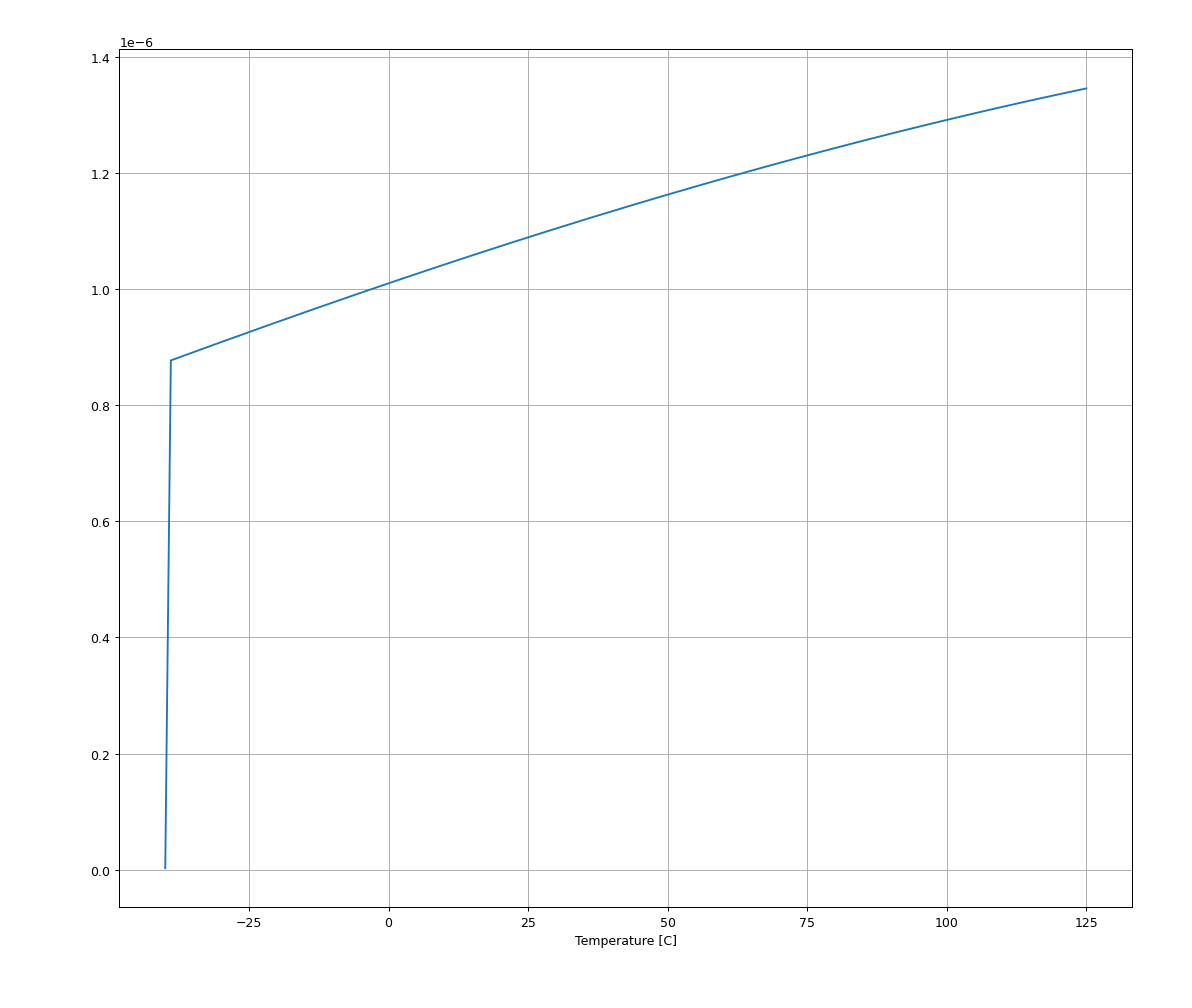
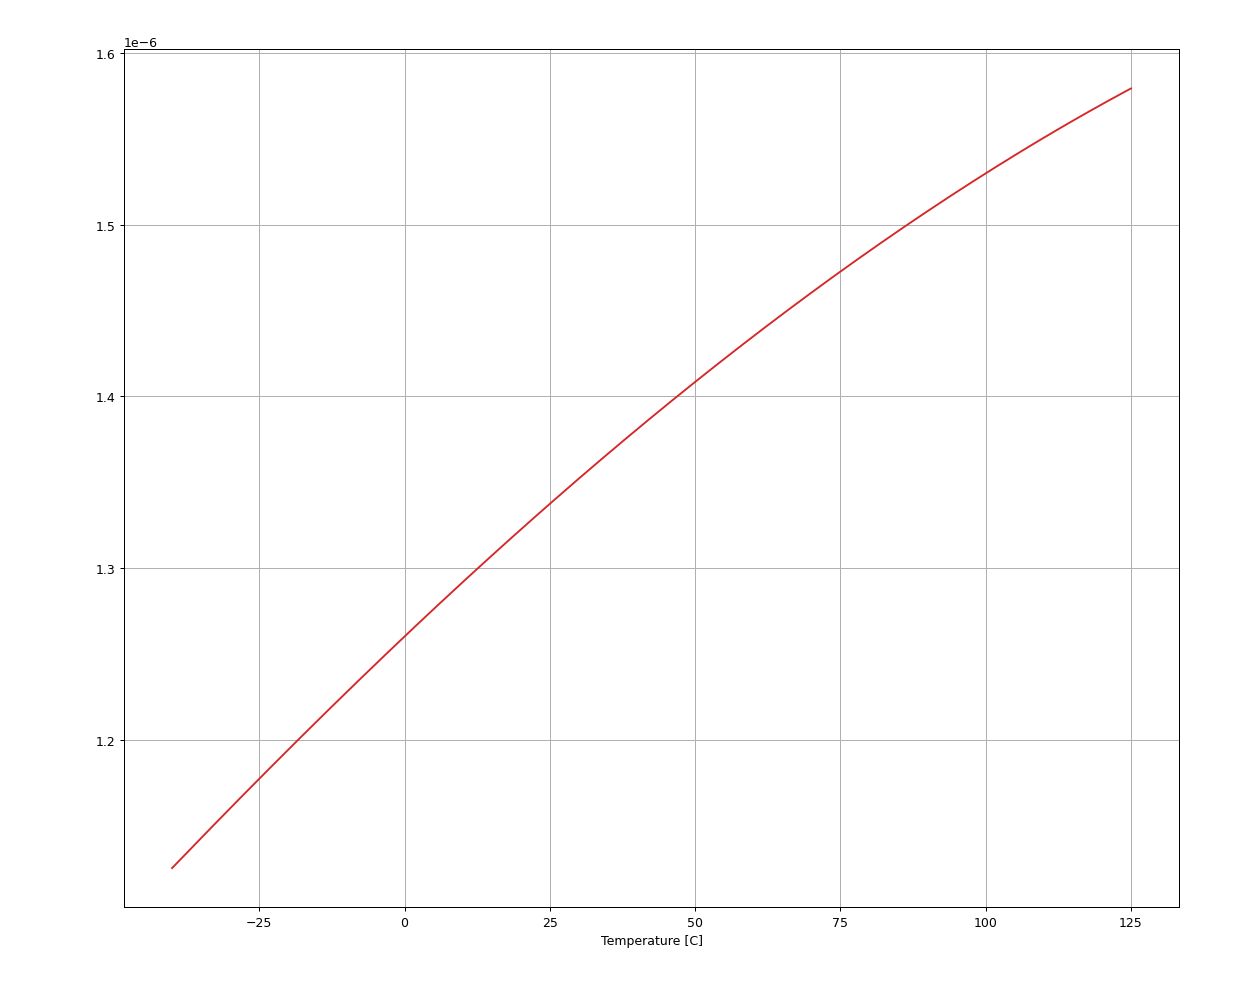
Fixed schemati bug and added updated graph pictures. Also edited README.

diff --git a/README.md b/README.md
@@ -6,18 +6,24 @@
 # Who
 Nicolas, Nikolai and Walter, aka. Group 1
 
-# Module 1: Bandgap
+# Module 2: Oscillator
 
 ## Why
 
-In order to create a temperature dependent output that we can measure later, we have created a bandgap that outputs a current which varies based on temperature. 
+To avoid having to make an ADC, the current that scales linearly with temperature can be converted into a frequency. If we can do this, then it will be less accurate than with a good ADC, but also way less complex, because frequency can be read without an ADC.
 
 
 ## How
 
-The bandgap works since the voltage across our "diodes" (two diode-connected PNP transistors) will vary based on a factor of kT/q  where T is the temperature in kelvin (and the size). So, both our diodes have a known voltage drop VD1 and VD2 which depends on the temperature. In order to use this voltage drop to create a varying output current we set a resistor above one of the diodes. Then we force the voltage above the resistor VR1 to be the same as the voltage above the other diode VD2. The voltage drop across the resistor (and thus the current) will then be VR1 - VD1, or VD2 - VD1. By setting the diodes as different sizes, we will then get a temperature dependent current through the loop.
+### Bandgap module
 
-The schematic of this circuit can be found in design/LELO_GR01_SKY130A/bandgap.sch
+The bandgap works since the voltage across our "diodes" (two diode-connected PNP transistors) will vary based on a factor of kT/q  where T is the temperature in kelvin (and the size). So, both our diodes have a known voltage drop VD1 and VD2 which depends on the temperature. In order to use this voltage drop to create a varying output current we set a resistor above one of the diodes. Then we force the voltage above the resistor VR1 (12 * 7.535kΩ = 90.42kΩ) to be the same as the voltage above the other diode Q2 using an OTA. The voltage drop across the resistor (and thus the current) will then be VR1 - VD1, or VD2 - VD1. By setting the diodes at different sizes, we will then get a temperature dependent current through the loop.
+
+We then use current mirrors to mirror this to two different branches. One is a constant voltage (VREF), and one varies with temperature (IPTAT). VREF is constant because it is set by resistors (70.667 * 7.535kΩ = 532.473kΩ). IPTAT is not locked by resistors, and therefore varies with temperature. Afterwards, these go into the oscillator to be compared.
+
+### Oscillator module
+
+The oscillator works by using these two signals as inputs. The IPTAT current charges a capacitor, and also goes into the negative input of an OTA. The VREF goes into the positive input of the same OTA. When IPTAT has charged the capacitor, the voltage on this node will eventually rise above the positive input. When this happens, there will be an output after a certain delay, caused by the inverters. This output then turns on a transistor in parallel with the charging capacitor, which will empty it. This process generates one period of an oscillating output signal, which will increase in frequency with the current charging the capacitor, and therefore temperature. This means we have successfully generated a frequency that scales relatively linearly with temperature. The slight non-linearity of this will be the temperature inaccuracy, which needs to be minimized. This will also be affected by variations in the die of the final tapeout.
 
 Look at the bottom of this readme for waveforms.
 
@@ -26,9 +32,11 @@ Look at the bottom of this readme for waveforms.
 
 | What                 |        Cell/Name                       |
 | :----                |  :----:                                |
+| Schematic Top level  | design/LELO_GR01_SKY130A/LELO_GR01.sch |
+| Schematic Oscillator | design/LELO_GR01_SKY130A/oscillator.sch|
 | Schematic Bandgap    | design/LELO_GR01_SKY130A/bandgap.sch   |
 | Schematic Diff Amp   | design/LELO_GR01_SKY130A/diffamp_1.sch |
-
+| Schematic GM cell    | design/LELO_GR01_SKY130A/GM_cell.sch   |
 
 
 
@@ -40,40 +48,32 @@ Look at the bottom of this readme for waveforms.
 | VDD_1V8      | Input     | VDD_1V8 | 1.8V Main supply                          |
 | VSS          | Input     | Ground  |                                           |
 | PWRUP_1V8    | Input     | VDD_1V8 | Power up the circuit                      |
-| IB           | Input     | VDD_1V8 | 10µA reference input current              |
-| VREF         | Output    | VDD_1V8 | 1.22V reference voltage generated         |
+| IBP          | Input     | VDD_1V8 | 10µA bias current for OTA's               |
+| VREF         | Output    | VDD_1V8 | 1.27V reference voltage generated         |
 | VIP          | Output    | VDD_1V8 | CTAT voltage which decreases with temperature  |
 | IPTAT        | Output    | VDD_1V8 | PTAT current which increases with temperature  |
-
-
+| OSC_TEMP_1V8 | Output    | VDD_1V8 | Temperature dependent frequency           |
 
 
 ## Key parameters
 
 
-| Parameter           | Min     | Typ             | Max     | Unit  |
-| :---                | :---:   | :---:           | :---:   | :---: |
-| Technology          |         | Skywater 130 nm |         |       |
-| AVDD                | 1.7     | 1.8             | 1.9     | V     |
-| Temperature         | -40     | 27              | 125     | C     |
+| Parameter             | Min     | Typ             | Max     | Unit  |
+| :---                  | :---:   | :---:           | :---:   | :---: |
+| Technology            |         | Skywater 130 nm |         |       |
+| AVDD                  | 1.7     | 1.8             | 1.9     | V     |
+| Oscillation frequency | 1.7     | 2.3             | 3.1     | MHz   |
+| Temperature           | -40     | 27              | 125     | C     |
 
 
-## Some important waveforms
+## Simulation Graphs
 
 ![](sim/bandgap/I_PTAT.png)
 
-<sub> Figure 1: Current simulated with a sweeping temperature between -40 and 125 degrees C, also known as IPTAT. </sub>
+<sub> Figure 1: IPTAT simulated with a sweeping temperature between -40 and 125 degrees C. A 1k </sub>
 
-![](sim/bandgap/V_PTAT.png)
+![](sim/bandgap/VREF.png)
 
-<sub> Figure 2: Voltage simulated with a sweeping temperature between -40 and 125 degrees C, also known as VPTAT. </sub>
-
-![](sim/bandgap/I_CTAT.png)
-
-<sub> Figure 3: Current simulated with a sweeping temperature between -40 and 125 degrees C, also known as ICTAT. </sub>
-
-![](sim/bandgap/V_CTAT.png)
-
-<sub> Figure 4: Voltage simulated with a sweeping temperature between -40 and 125 degrees C, also known as VCTAT. </sub>
+<sub> Figure 4: VREF simulated with a sweeping temperature between -40 and 125 degrees C. It is fairly constant, only varying with a delta of about 4mV.</sub>
 
 
